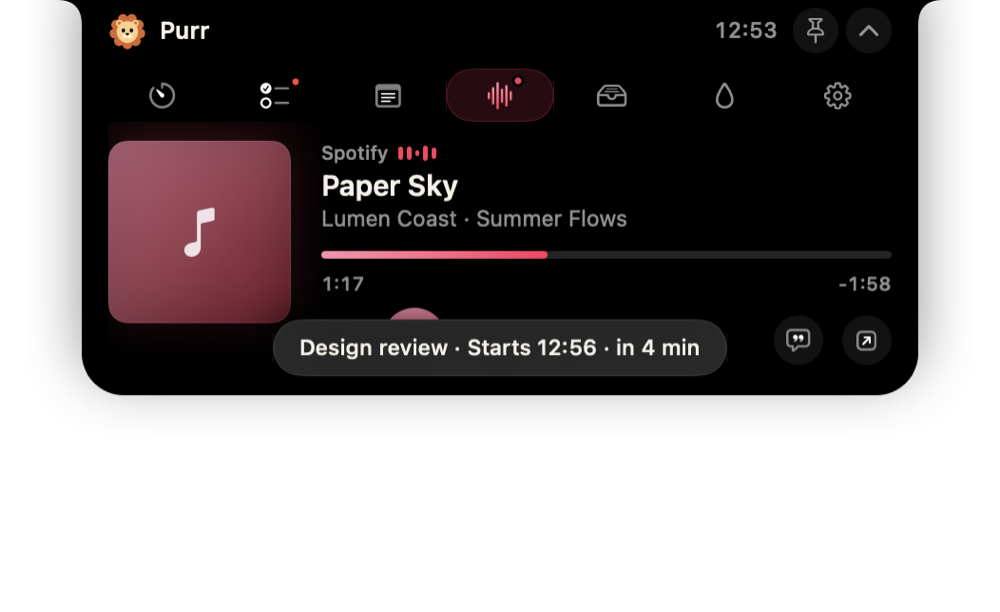
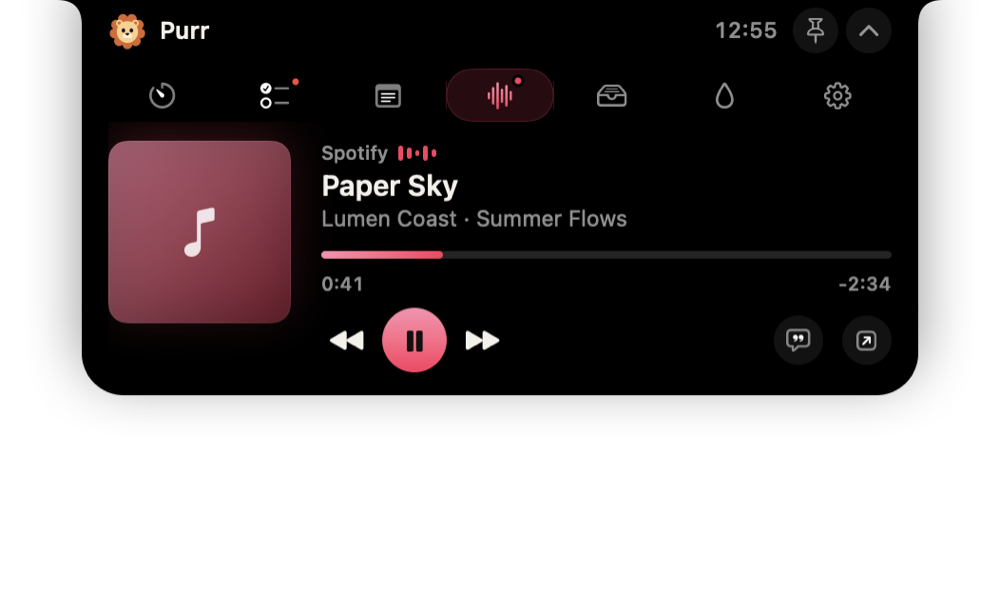
Self-test: stable demo song position and no stray Rally toast in snapshots
The demo track is built when its step runs (so Chorus shows 0:41, not the
last line), and simulated meetings count as already announced so the ticker
doesn't turn them into a toast over the Purr snapshot. Screenshots updated.

diff --git a/Sources/EzkielNotch/App/SelfTest.swift b/Sources/EzkielNotch/App/SelfTest.swift
@@ -143,20 +143,23 @@ enum SelfTest {
         }))
 
         if snapshotDir != nil {
-            let np = NowPlaying(player: .spotify, title: "Paper Sky", artist: "Lumen Coast", album: "Summer Flows",
-                                duration: 196, position: 41, isPlaying: true, artworkURL: nil, fetchedAt: Date())
+            // Built when the step runs, so the song is at 0:41 in the snapshot, not wherever the clock got to.
+            let np = { NowPlaying(player: .spotify, title: "Paper Sky", artist: "Lumen Coast", album: "Summer Flows",
+                                  duration: 196, position: 41, isPlaying: true, artworkURL: nil, fetchedAt: Date()) }
             let lines = ["we fold the summer light", "into paper birds tonight", "and send them through the sky",
                          "to find you by the sea", "every wing a little song", "that carries us along",
                          "and if the night gets long", "we'll hum the morning on"]
                 .enumerated().map { LyricLine(time: 30 + Double($0.offset) * 5, text: $0.element) }
             steps.append(("purr player", {
-                model.music.simulate(np)
+                model.music.simulate(np())
                 model.settings.showLyrics = false
                 model.expand(.purr)
             }))
             steps.append(("purr chorus", {
                 model.settings.showLyrics = true
-                model.lyrics.preview(lines, for: np)
+                let song = np()
+                model.music.simulate(song)
+                model.lyrics.preview(lines, for: song)
             }))
             steps.append(("chorus closed notch", {
                 model.collapse()

diff --git a/Sources/EzkielNotch/Model/AppModel.swift b/Sources/EzkielNotch/Model/AppModel.swift
@@ -1159,6 +1159,8 @@ final class AppModel: ObservableObject {
     // MARK: - Self-test hooks
 
     func simulateMeetings(_ meetings: [CalendarService.Meeting]) {
+        // The test shows its own Rally peek; the ticker shouldn't add a second one as a toast.
+        notifiedMeetings.formUnion(meetings.map(\.id))
         calendar.simulate(meetings)
     }
 
